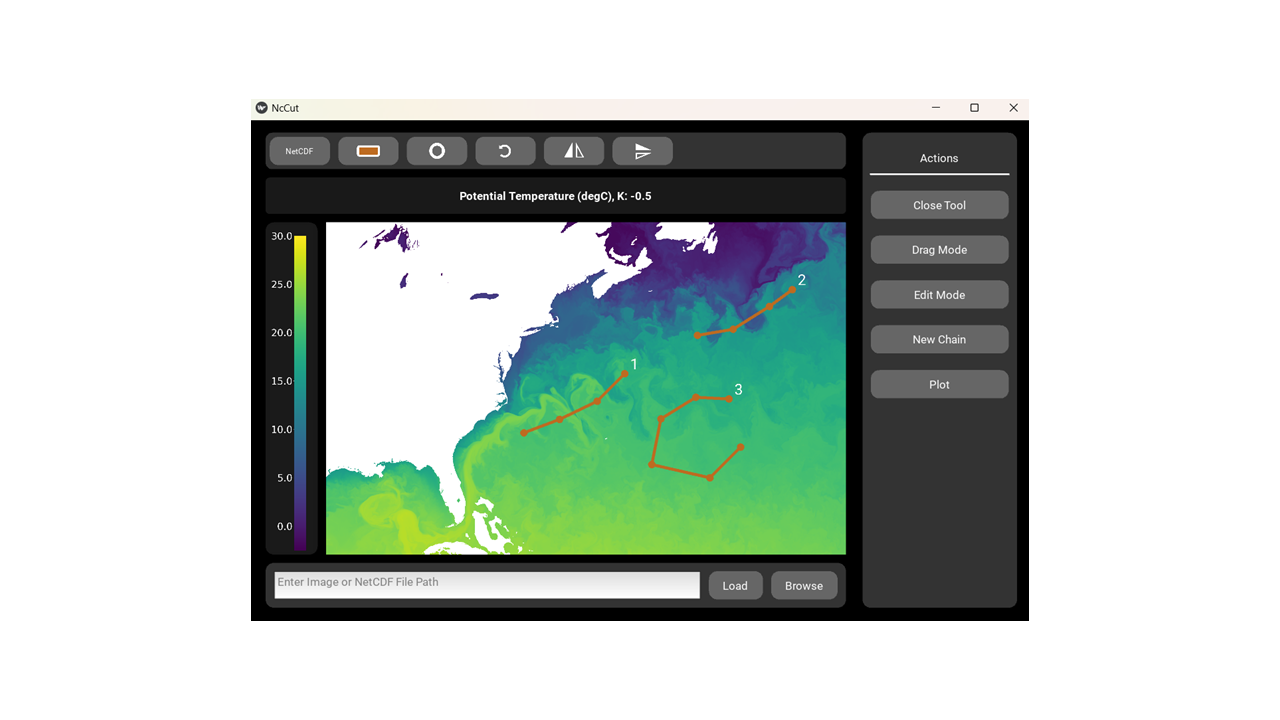
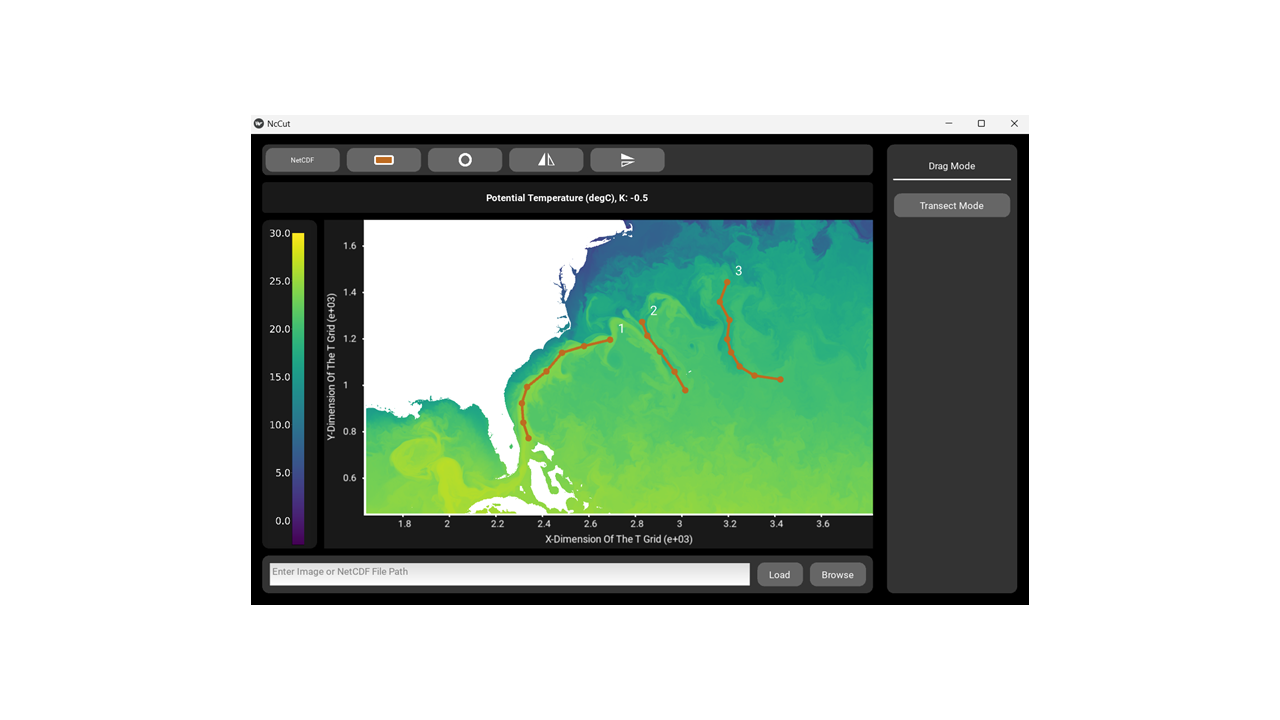
Update images

Changed region(s): [[0.1875, 0.1222, 0.8125, 0.8861]]

diff --git a/src/nccut/multiorthogonalchain.py b/src/nccut/multiorthogonalchain.py
@@ -111,6 +111,10 @@ class MultiOrthogonalChain(ui.widget.Widget):
         """
         for m in self.children:
             m.update_c_size(value)
+        if self.clicks >= 1 and self.width_btn.parent is None:
+            self.home.display.add_to_sidebar([self.width_btn])
+        if self.clicks >= 2 and self.dbtn.parent is None:
+            self.home.display.add_to_sidebar([self.dbtn])
 
     def change_dragging(self, val):
         """
@@ -287,9 +291,9 @@ class MultiOrthogonalChain(ui.widget.Widget):
         self.children[0].del_point()
         self.clicks -= 1
         # Determine which buttons should be in sidebar
-        if self.clicks == 1:
+        if self.clicks == 1 and self.dbtn in self.home.display.tool_action_widgets:
             self.home.display.remove_from_tool_action_widgets(self.dbtn)
-        elif self.clicks == 0:
+        elif self.clicks == 0 and self.width_btn in self.home.display.tool_action_widgets:
             self.home.display.remove_from_tool_action_widgets(self.width_btn)
 
     def new_chain(self):

diff --git a/src/nccut/multiinlinechain.py b/src/nccut/multiinlinechain.py
@@ -236,14 +236,15 @@ class MultiInlineChain(ui.widget.Widget):
         if len(self.children) == 0:
             # If no chains on screen do nothing
             return
-        elif self.children[0].clicks == 0:
+        elif self.children[0].clicks <= 2:
             if self.dbtn in self.home.display.tool_action_widgets:
                 self.home.display.remove_from_tool_action_widgets(self.dbtn)
-            if len(self.children) > 1:
-                # If no clicks on current chain and not the only chain delete current chain
-                self.remove_widget(self.children[0])
-            else:
-                return
+            if self.children[0].clicks == 0:
+                if len(self.children) > 1:
+                    # If no clicks on current chain and not the only chain delete current chain
+                    self.remove_widget(self.children[0])
+                else:
+                    return
         # Delete point from current chain
         self.children[0].del_point()
 

diff --git a/src/nccut/orthogonalchain.py b/src/nccut/orthogonalchain.py
@@ -110,6 +110,7 @@ class OrthogonalChain(ui.widget.Widget):
         for p in points:
             self.update_width(p[2])
             self.on_touch_down(functions.Click(p[0], p[1]))
+            self.parent.clicks += 1
         self.stop_drawing()
 
     def update_width(self, width):
